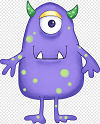
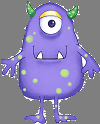
fixed transparency and error check on sounds

diff --git a/game.py b/game.py
@@ -25,11 +25,12 @@ from pygame.locals import (
 # get the folder qwhich contains this file
 folder = os.path.abspath(os.path.dirname(__file__))
 
-PLAYER = os.path.join(folder, "man.png")
+PLAYER = os.path.join(folder, "astronaut.png")
 FLYER = os.path.join(folder, "star.png")
 ENEMY = os.path.join(folder, "alien.png")
 
 bg_color = (0, 247, 255)
+#bg_color = (255, 255, 255)
 
 SONG = os.path.join(folder, "song.mp3")  # mp3 file
 SOUND = None
@@ -40,11 +41,14 @@ SCREEN_HEIGHT = 600
 
 
 def play_sound(sound_file):
-    
+
     #play sound once
     if sound_file is not None:
-        soundObj = pygame.mixer.Sound(sound_file)
-        soundObj.play(1)
+        try:
+            soundObj = pygame.mixer.Sound(sound_file)
+            soundObj.play(1)
+        except Exception as error:
+            print(f'Failed to play sound. Error message was: {error}')
 
 
 class Song:
@@ -54,14 +58,18 @@ class Song:
         self.mute = mute
 
         # load song file
-        self.song = pygame.mixer.Sound(SONG)
+        try:
+            self.song = pygame.mixer.Sound(SONG)
+        except Exception as error:
+            self.song = None
+            print(f'Failed to play song. Error message was: {error}')
 
     def play(self):
-        if not self.mute:
+        if not self.mute and self.song is not None:
             self.song.play(-1)
 
     def stop(self):
-        if not self.mute:
+        if not self.mute and self.song is not None:
             self.song.stop()
 
 
@@ -72,7 +80,8 @@ class Player(pygame.sprite.Sprite):
     def __init__(self):
         pygame.sprite.Sprite.__init__(self)
         self.surf = pygame.image.load(PLAYER).convert()
-        self.surf.set_colorkey((255, 255, 255), RLEACCEL)
+        transparent_color = self.surf.get_at((0,0))
+        self.surf.set_colorkey(transparent_color, RLEACCEL)
         self.rect = self.surf.get_rect()
 
     # Move the sprite based on user keypresses
@@ -110,7 +119,8 @@ class Enemy(pygame.sprite.Sprite):
     def __init__(self):
         pygame.sprite.Sprite.__init__(self)
         self.surf = pygame.image.load(ENEMY).convert()
-        self.surf.set_colorkey((255, 255, 255), RLEACCEL)
+        transparent_color = self.surf.get_at((0, 0))
+        self.surf.set_colorkey(transparent_color, RLEACCEL)
         self.rect = self.surf.get_rect(
             center=(
                 random.randint(SCREEN_WIDTH + 20, SCREEN_WIDTH + 100),
@@ -133,7 +143,8 @@ class Flyer(pygame.sprite.Sprite):
     def __init__(self):
         super(Flyer, self).__init__()
         self.surf = pygame.image.load(FLYER).convert()
-        self.surf.set_colorkey((0, 0, 0), RLEACCEL)
+        transparent_color = self.surf.get_at((0,0))
+        self.surf.set_colorkey(transparent_color, RLEACCEL)
         # The starting position is randomly generated
         self.rect = self.surf.get_rect(
             center=(
